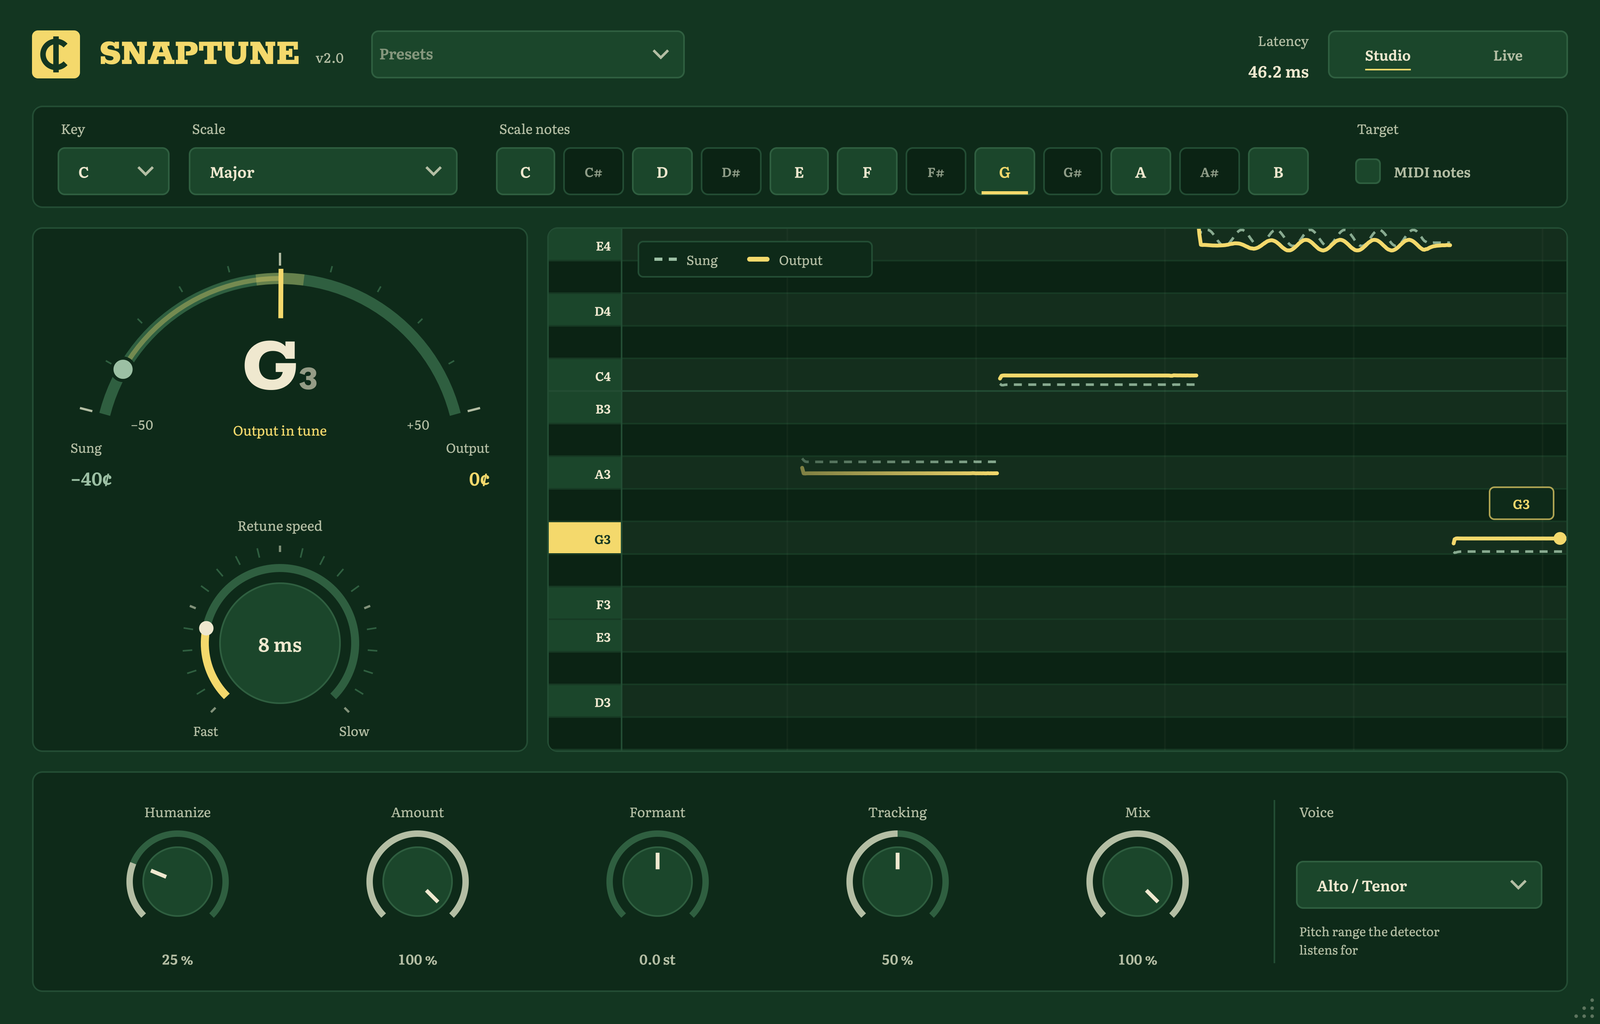
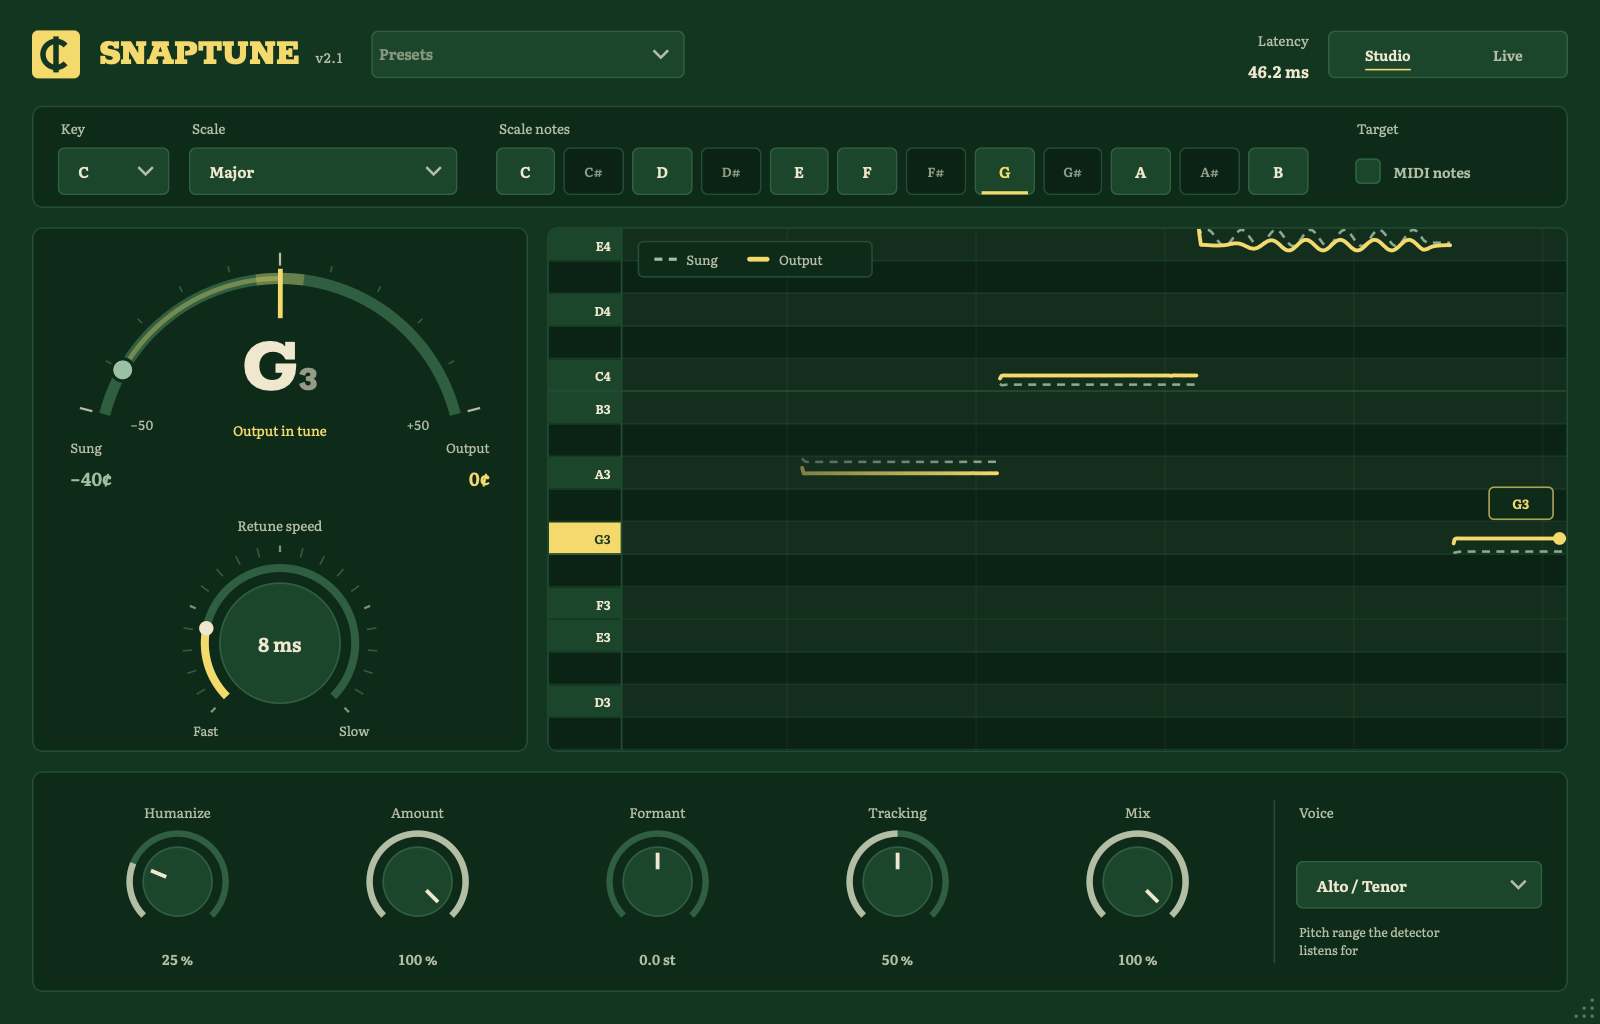
SnapTune 2.1: no more sub-harmonic jumps in the pitch detector
On real recordings (breath, room sound, bleed from speakers) YIN often picked
2-4x the voice's period, so a held note read an octave or more too low for
tens of milliseconds. In Studio the grains were then spaced wrong: the
correction let go and the overlap beat, heard as a slight stutter. On a take
from the reels it happened in ~10% of the sung frames.

The detector now prefers a whole fraction of its pick, or the period it was
tracking, when that lag still has a clear dip. On that take the wrong-octave
frames drop by 66% in Studio and 53% in Live. New tests cover a roomy,
breathy voice and the same voice with bleed a fifth below (the old detector
gets the octave right 53-56% and 27-28% of the time; now 91-98%), plus
legato octave leaps, which must still be followed.

diff --git a/tests/TestMain.cpp b/tests/TestMain.cpp
@@ -976,6 +976,74 @@ void testRealWorldVoices()
     }
 }
 
+/** Fraction of the hops inside the notes (onsets trimmed) where the engine's detected pitch is
+    within a semitone of the sung one. Octave and sub-harmonic picks are what this catches. */
+double pitchAccuracy (const std::vector<PitchFrame>& frames, double sampleRate, const std::vector<SungNote>& notes)
+{
+    const double maxPeriod = std::ceil (sampleRate / 65.0);
+    const double hop = std::max (32.0, (double) std::lround (sampleRate / 375.0));
+    const double firstHop = std::ceil ((2.0 * maxPeriod + 2.0) / hop) * hop;
+    int inside = 0, right = 0;
+
+    for (size_t i = 0; i < frames.size(); ++i)
+    {
+        const double t = (firstHop + (double) i * hop - 0.75 * maxPeriod - hop) / sampleRate;
+
+        for (const auto& n : notes)
+        {
+            if (t >= n.start + 0.08 && t <= n.end - 0.02)
+            {
+                ++inside;
+                right += frames[i].voiced && std::abs (frames[i].inputNote - (n.note + n.cents / 100.0)) < 1.0 ? 1 : 0;
+            }
+        }
+    }
+
+    return inside > 0 ? (double) right / inside : 0.0;
+}
+
+void testOctaveErrors()
+{
+    const double sampleRate = 48000.0;
+
+    // Legato octave leaps both ways: the detector must follow them, not hold the old octave.
+    const std::vector<SungNote> leaps { { 0.10, 0.80, 57, 0 }, { 0.80, 1.50, 69, 0 }, { 1.50, 2.20, 57, 0 }, { 2.20, 2.90, 45, 0 }, { 2.90, 3.60, 57, 0 } };
+    const auto leapInput = renderVoice (sampleRate, 3.7, melodyPitch (leaps));
+
+    // A held note with breath, jitter and room sound: consecutive cycles differ enough that YIN
+    // without a guard often prefers 2-4 periods (the note reads an octave or more too low). Then the
+    // same voice over bleed a fifth below, 14 dB down (speaker spill, a backing vocal), which
+    // repeats every two voice periods.
+    const std::vector<SungNote> held { { 0.10, 2.90, 63, 0 } };
+    const auto roomy = renderRealisticVoice (sampleRate, 3.0, melodyPitch (held), { -12.0, 0.35, 0.012, 0.15, 0.3 });
+    const auto bleed = renderVoice (sampleRate, 3.0, [] (double t) { return t >= 0.05 && t < 2.95 ? midiToHz (63.0) * 2.0 / 3.0 : 0.0; });
+    auto withBleed = roomy;
+
+    for (size_t i = 0; i < withBleed.size(); ++i)
+        withBleed[i] += 0.1f * bleed[i];
+
+    for (auto mode : { LatencyMode::studio, LatencyMode::live })
+    {
+        const juce::String tag (mode == LatencyMode::live ? " [Live]" : " [Studio]");
+        auto settings = hardTune();
+        settings.mode = mode;
+
+        auto score = [&] (const std::vector<float>& input, const std::vector<SungNote>& notes)
+        {
+            std::vector<PitchFrame> frames;
+            runEngine (input, sampleRate, settings, {}, 256, nullptr, &frames);
+            return pitchAccuracy (frames, sampleRate, notes);
+        };
+
+        const double leapScore = score (leapInput, leaps);
+        const double roomyScore = score (roomy, held);
+        const double bleedScore = score (withBleed, held);
+        check (leapScore > 0.97, "Follows octave leaps" + tag, "right octave " + juce::String (100.0 * leapScore, 1) + "% of the time");
+        check (roomyScore > 0.95, "No sub-harmonic jumps on a roomy, breathy voice" + tag, "right octave " + juce::String (100.0 * roomyScore, 1) + "% of the time");
+        check (bleedScore > 0.9, "No sub-harmonic jumps with bleed a fifth below" + tag, "right octave " + juce::String (100.0 * bleedScore, 1) + "% of the time");
+    }
+}
+
 void testModeSwitch()
 {
     const double sampleRate = 48000.0;
@@ -1505,6 +1573,7 @@ int main (int argc, char* argv[])
     testLiveMode (outDir);
     testLowVoice();
     testRealWorldVoices();
+    testOctaveErrors();
     testModeSwitch();
     testGraphStaysStill();
     testBlockSizesAndCpu();

diff --git a/Source/dsp/PitchDetector.cpp b/Source/dsp/PitchDetector.cpp
@@ -43,7 +43,7 @@ void PitchDetector::prepare (int newWindowSize, int newMaxLag)
     inverseScale = std::abs (spectrumA[0]) > 1.0e-9f ? 1.0f / spectrumA[0] : 1.0f;
 }
 
-PitchDetector::Result PitchDetector::analyse (const float* frame, float minPeriod, float maxPeriod, float threshold, int window)
+PitchDetector::Result PitchDetector::analyse (const float* frame, float minPeriod, float maxPeriod, float threshold, int window, float previousPeriod)
 {
     Result result;
     const int frameSize = getFrameSize();
@@ -127,6 +127,40 @@ PitchDetector::Result PitchDetector::analyse (const float* frame, float minPerio
             if (cmnd[(size_t) tau] < cmnd[(size_t) best])
                 best = tau;
     }
+
+    // A periodic signal is also periodic at every multiple of its period, so breath, room sound or
+    // other sources often push the pick to 2x-4x the tracked period (the note drops an octave or
+    // more). If the tracked period, or a whole fraction of the pick, still has a clear dip, the
+    // shortest such period is the voice.
+    auto dipNear = [&] (float period)
+    {
+        const int from = std::max (tauMin, (int) std::floor (0.94f * period));
+        const int to = std::min (tauMax, (int) std::ceil (1.06f * period));
+        int dip = -1;
+
+        for (int tau = from; tau <= to; ++tau)
+            if (dip < 0 || cmnd[(size_t) tau] < cmnd[(size_t) dip])
+                dip = tau;
+
+        const bool clear = dip > tauMin && dip < tauMax && cmnd[(size_t) dip] < cmnd[(size_t) best] + 0.2f
+                           && cmnd[(size_t) dip] <= cmnd[(size_t) dip - 1] && cmnd[(size_t) dip] <= cmnd[(size_t) dip + 1];
+        return clear ? dip : -1;
+    };
+
+    const int picked = best;
+
+    for (int k = 4; k >= 2; --k)
+    {
+        if (const int dip = dipNear ((float) picked / (float) k); dip > 0)
+        {
+            best = dip;
+            break;
+        }
+    }
+
+    if (previousPeriod > 0.0f && (float) best > 1.5f * previousPeriod)
+        if (const int dip = dipNear (previousPeriod); dip > 0)
+            best = dip;
 
     // Parabolic interpolation on the raw difference function for sub-sample accuracy.
     float period = (float) best;

diff --git a/Source/dsp/PitchDetector.h b/Source/dsp/PitchDetector.h
@@ -31,8 +31,10 @@ public:
 
     /** `frame` holds getFrameSize() samples, oldest first. The integration window is anchored at
         the newest end of the frame so the estimate describes the most recent audio. A shorter
-        `window` (0 = the prepared size) reacts faster at the cost of some robustness. */
-    Result analyse (const float* frame, float minPeriod, float maxPeriod, float threshold, int window = 0);
+        `window` (0 = the prepared size) reacts faster at the cost of some robustness.
+        `previousPeriod` (0 = none) is the period being tracked: when the pick lands on a multiple
+        of it and the signal is still periodic there, the tracked period wins (no sub-harmonic jump). */
+    Result analyse (const float* frame, float minPeriod, float maxPeriod, float threshold, int window = 0, float previousPeriod = 0.0f);
 
 private:
     int windowSize = 0, maxLag = 0, fftSize = 0;

diff --git a/Source/dsp/AutoTuneEngine.cpp b/Source/dsp/AutoTuneEngine.cpp
@@ -487,7 +487,7 @@ void AutoTuneEngine::analyseHop()
         window = (int) juce::jlimit (0.35 * maxPeriod, (double) maxPeriod, 1.5 * reference);
     }
 
-    const auto result = detector.analyse (frame.data(), minPeriod, maxPeriodForVoice, pickThreshold, window);
+    const auto result = detector.analyse (frame.data(), minPeriod, maxPeriodForVoice, pickThreshold, window, wasVoiced ? stampPeriod : 0.0f);
 
     // Hysteresis on both the level gate and the periodicity threshold keeps the voicing
     // decision from chattering at the ends of notes.

diff --git a/packaging/release-notes.md b/packaging/release-notes.md
@@ -1,12 +1,10 @@
 Real-time pitch correction: VST3, Audio Unit and a standalone app for macOS (universal, Apple Silicon + Intel), VST3 and a standalone app for Windows (64-bit), and VST3, LV2 and a standalone app for Linux (64-bit).
 
-### What's new in 2.0
+### What's new in 2.1
 
-- **Linux:** VST3, LV2 and a standalone app for 64-bit Linux, with an install script. The Linux builds are new and haven't been tried in every DAW yet: if yours has trouble, please [open an issue](https://github.com/NicoFerni/snaptune/issues) with the DAW, its version and your distribution.
-- **A new look:** a new logo, bottle green and gold, and new type (Rokkitt and Literata) built into the plugin, so the window looks the same on every system.
-- **A new website** at [getsnaptune.com](https://getsnaptune.com), where you can play the plugin in your browser before installing it.
+- **Steadier tracking on real recordings:** with breath, room sound or something else leaking into the mic, SnapTune sometimes heard a held note an octave or more too low for a few hundredths of a second. The correction let go for that moment, which sounded like a slight stutter (most of all in Studio mode). It now keeps to the note you're singing, and still follows real octave leaps.
 
-Nothing about the sound changed, and sessions saved with 1.x open as before.
+Sessions saved with earlier versions open as before.
 
 ### Install on macOS
 
